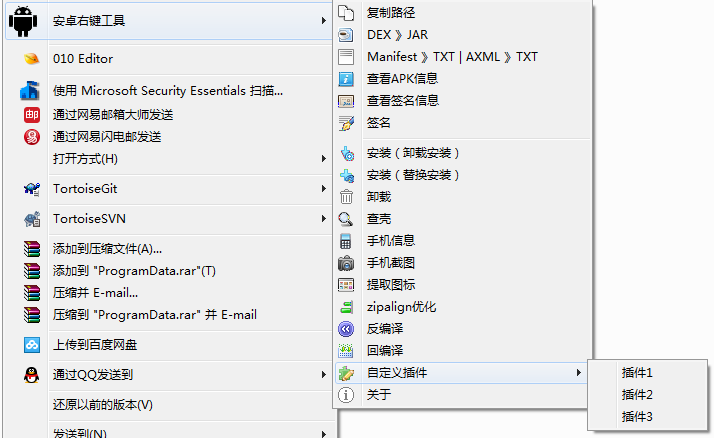
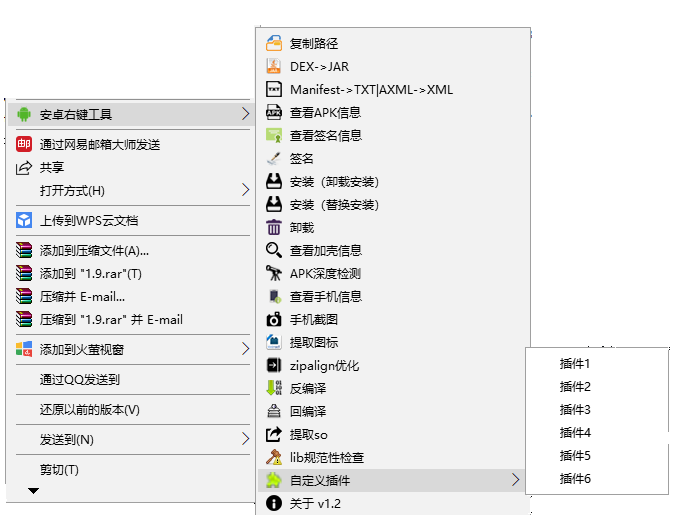
the new screenshot and readme.md

Changed region(s): [[0.0, 0.0, 0.9985, 1.0], [0.0624, 0.9795, 0.156, 1.0], [0.0, 0.9498, 0.0624, 0.9795]]

diff --git a/README.md b/README.md
@@ -1,4 +1,4 @@
-# APKmenuTOOL - 安卓右键工具
+# APKmenuTOOL - 安卓右键工具
 
 ![](./doc/screenshot.png)
 
@@ -15,7 +15,7 @@
 
 ### 二、安装和卸载说明
 #### 1、安装
-运行APKmenuTOOL.exe，点击“添加到系统右键菜单”，安装完毕。安装路径为D:\APKmenuTOOL。
+运行APKmenuTOOL.exe，点击“添加到系统右键菜单”，安装完毕。默认安装路径为D:\APKmenuTOOL。
 
 #### 2、卸载
 运行APKmenuTOOL.exe，点击“从系统右键菜单移除”，卸载完毕。文件目录请手动删除。
@@ -33,10 +33,10 @@
 将dex(或APK中的dex）文件转为jar文件。任务完成时会在当前目录下生成文件名为源文件名的jar文件，并自动使用jd-gui打开所生成的jar文件。执行结果将在右下角冒泡提示。
 
 #### 3、Manifest->TXT|AXML->XML
-自动提取APK文件中的AndroidManifest.xml文件内容（若为AXML文件则直接提取文件内容），以TXT文件保存到当前目录，并自动打开生成的TXT文件。执行结果将在右下角冒泡提示。
+自动提取APK文件中的AndroidManifest.xml文件内容（若为AXML文件则直接提取文件内容），以TXT文件格式保存到当前目录，并自动打开生成的TXT文件。执行结果将在右下角冒泡提示。
 
 #### 4、查看APK信息
-自动提取APK文件中软件名称、包名、版本、启动Activity、权限列表等信息。以TXT文件保存到当前目录，并自动打开生成的TXT文件。执行结果将在右下角冒泡提示。
+自动提取APK文件中软件名称、包名、版本、启动Activity、权限列表等信息。任务完成时自动显示获取的信息，执行结果将在右下角冒泡提示。
   
 #### 5、查看签名信息
 自动提取APK文件的签名信息，任务完成时在当前目录下生成文件名为”源文件名_signinfo“的文本文件，，并自动打开生成的TXT文件。执行结果将在右下角冒泡提示。
@@ -54,13 +54,13 @@
 从手机中卸载被选中APK文件。使用该功能时，请先连接手机设备。执行结果将在右下角冒泡提示。
 
 #### 10、查看加壳信息
-检测APK文件是否被加壳，若被加壳则检测加壳厂家。任务完成时记事本将自动打开获取的信息，执行结果将在右下角冒泡提示。
+检测APK文件是否被加壳，若被加壳则检测加壳厂家。任务完成时自动显示获取的信息，执行结果将在右下角冒泡提示。
 
 #### 11、 APK深度检测
 自动检测APK文件是否是游戏APP和是否为XPOSED插件。如果为游戏APP则显示游戏引擎，如果为XPOSED插件APP则显示入口类。
 
 #### 12、查看手机信息
-自动获取手机类型、系统版本、系统API版本、系统CPU类型、序列号、IMEI、分辨率等信息，任务完成后将自动打开记事本显示获取到的手机信息，使用该功能时请先连接手机设备。执行结果将在右下角冒泡提示。
+自动获取手机类型、系统版本、系统API版本、系统CPU类型、序列号、IMEI、分辨率等信息，任务完成后将自动显示获取到的手机信息，使用该功能时请先连接手机设备。执行结果将在右下角冒泡提示。
 
 #### 13、手机截图
 对手机当前画面进行截图，任务完成时会在当前目录下生成screenshot.png，同时复制截图至剪贴板。执行结果将在右下角冒泡提示。
@@ -74,15 +74,15 @@
 #### 16、反编译
 对被选中APK进行反编译。任务完成时会在当前目录下生成和被选中APK名字一样的文件夹。执行结果将在右下角冒泡提示。
 
-#### 17、提取so
+#### 17、回编译
+对反编译后的APK文件夹进行回编译得到APK文件。任务完成时会在当前目录下生成编译后的APK文件。执行结果将在右下角冒泡提示。
+
+#### 18、提取so
 提取被选中APK中lib目录下的所有后缀为so的文件。任务完成时会在当前目录下生成名为“源文件名_lib”的文件夹。执行结果将在右下角冒泡提示。
 
-#### 18、lib规范检查
+#### 19、lib规范检查
 显示被选中APK中lib目录下so文件的组织结构，并判断lib目录下的SO文件配置是否规范。
 
-#### 19、回编译
-对反编译后的APK文件夹进行回编译得到APK文件。任务完成时会在当前目录下生成编译后的APK文件。执行结果将在右下角冒泡提示。
-  
 #### 20、自定义插件
 预留的可安装插件的接口。用户可以通过以下步骤安装自定义插件:
   
